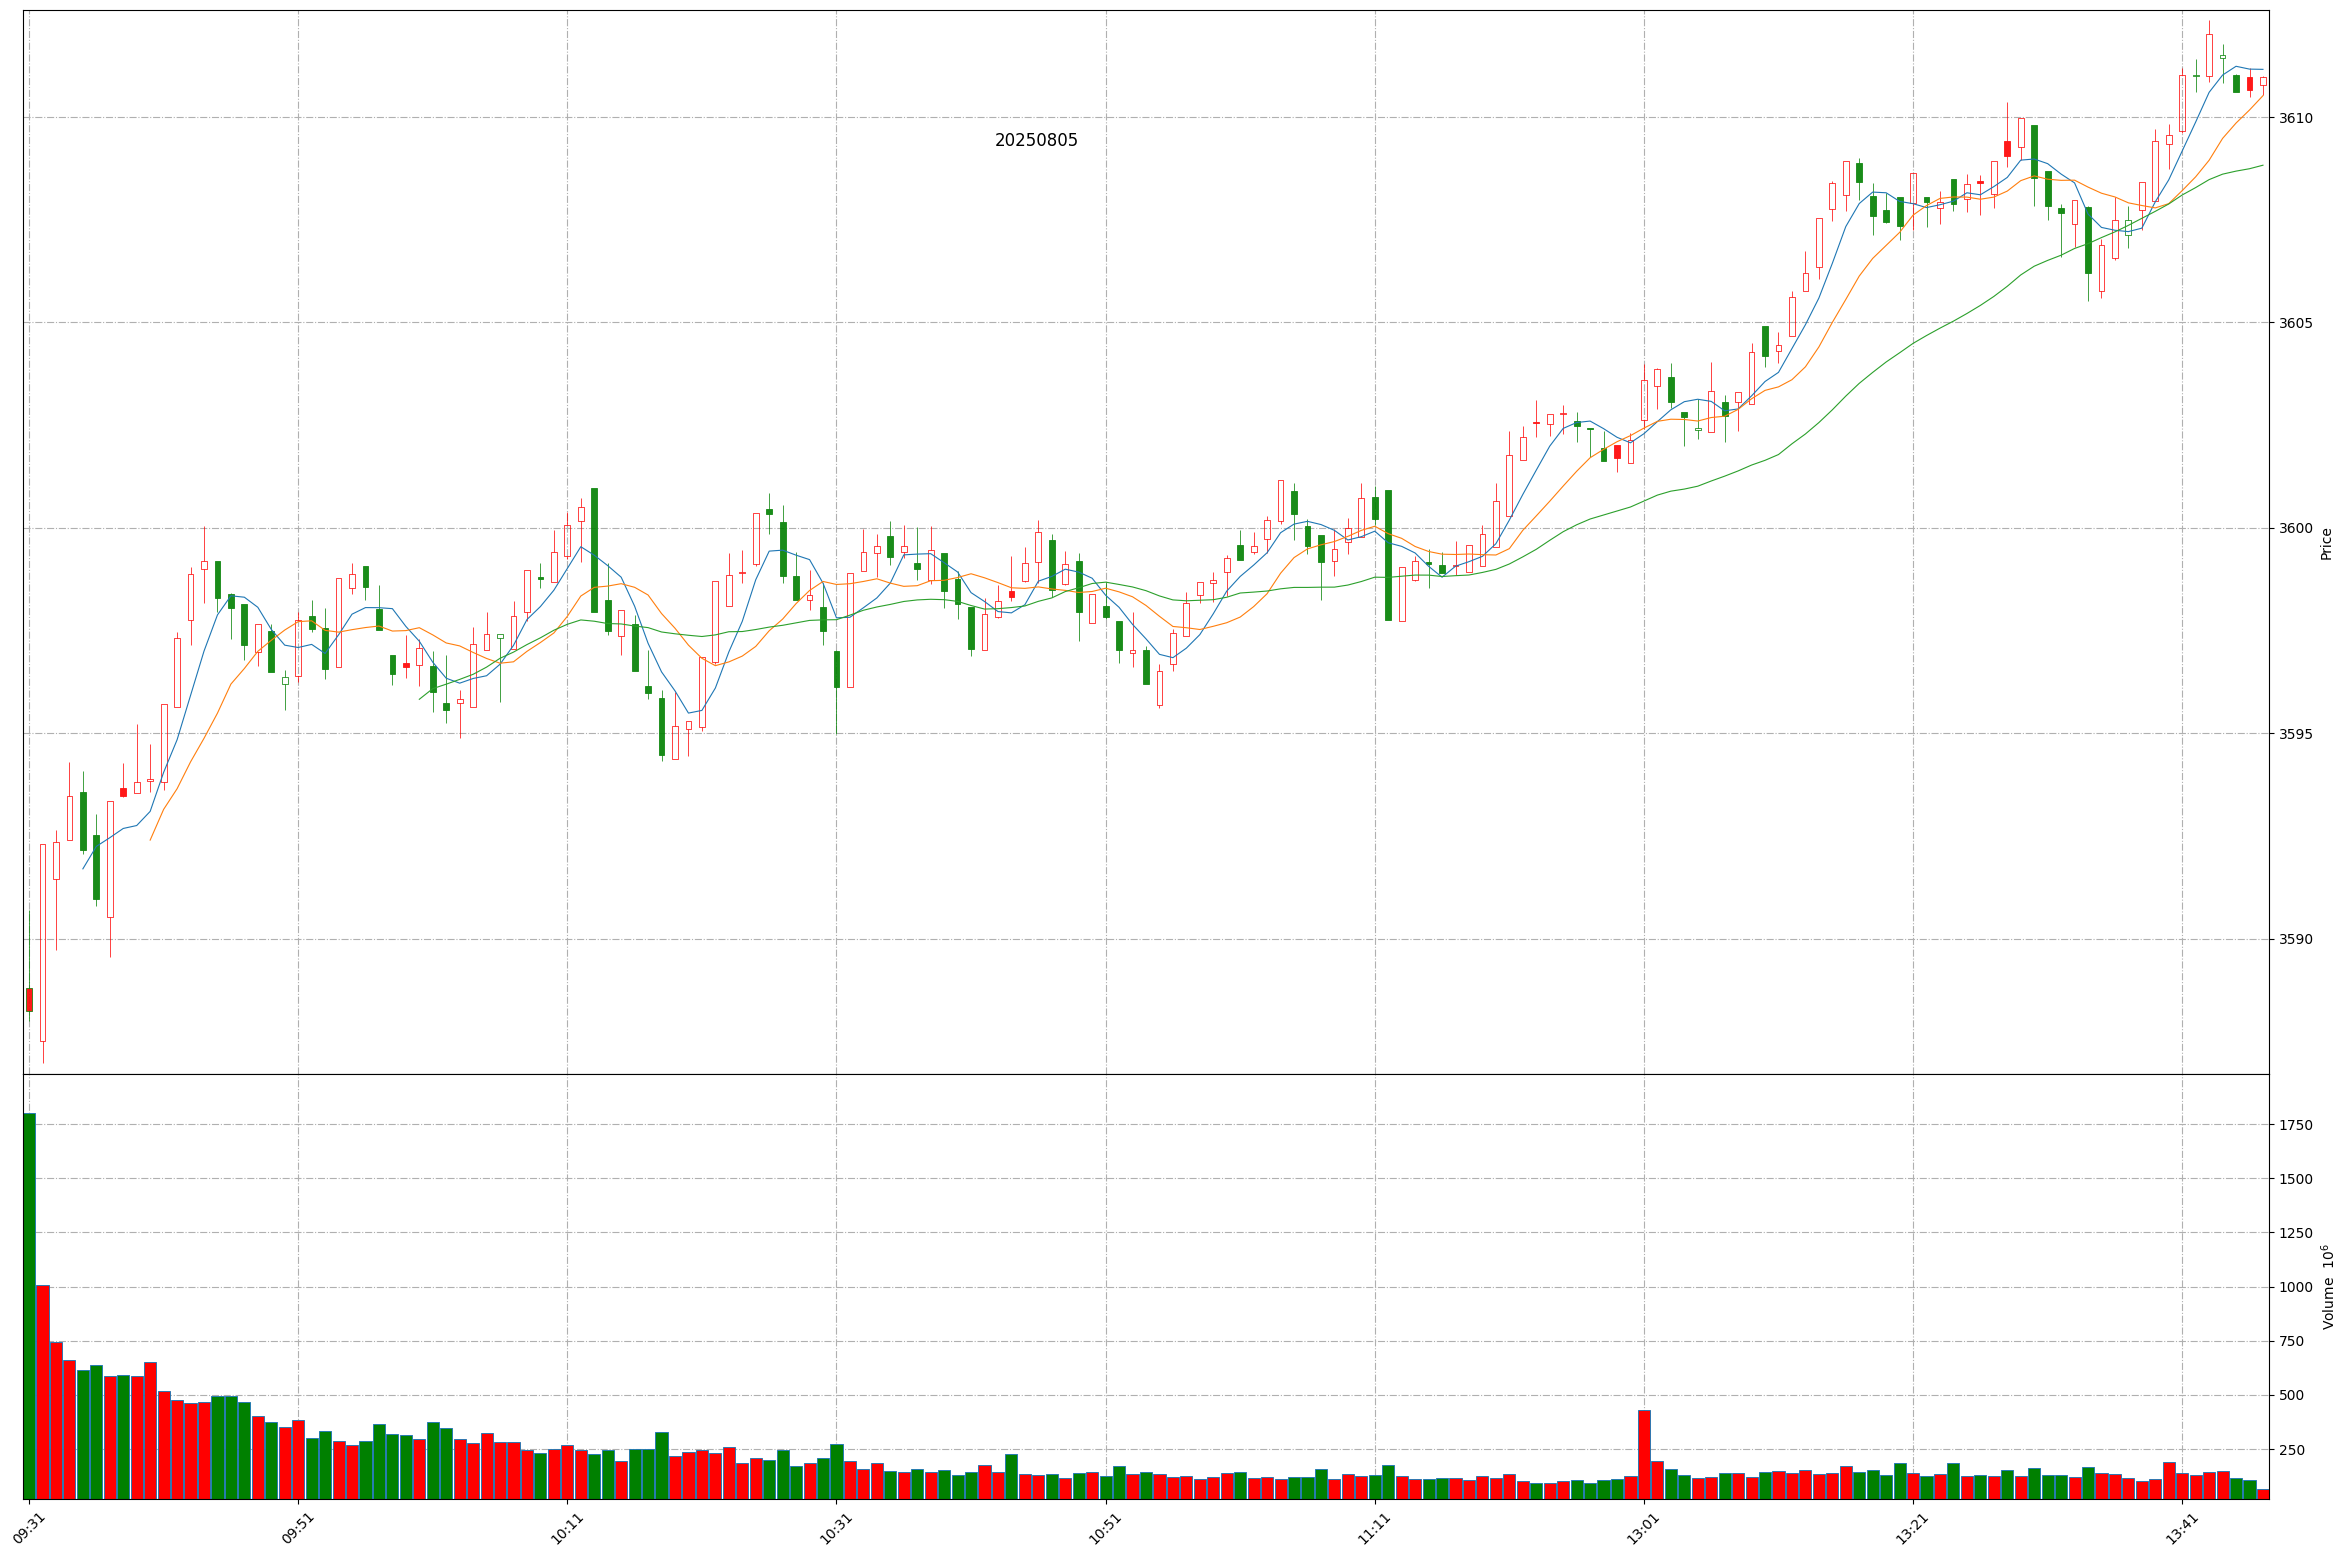
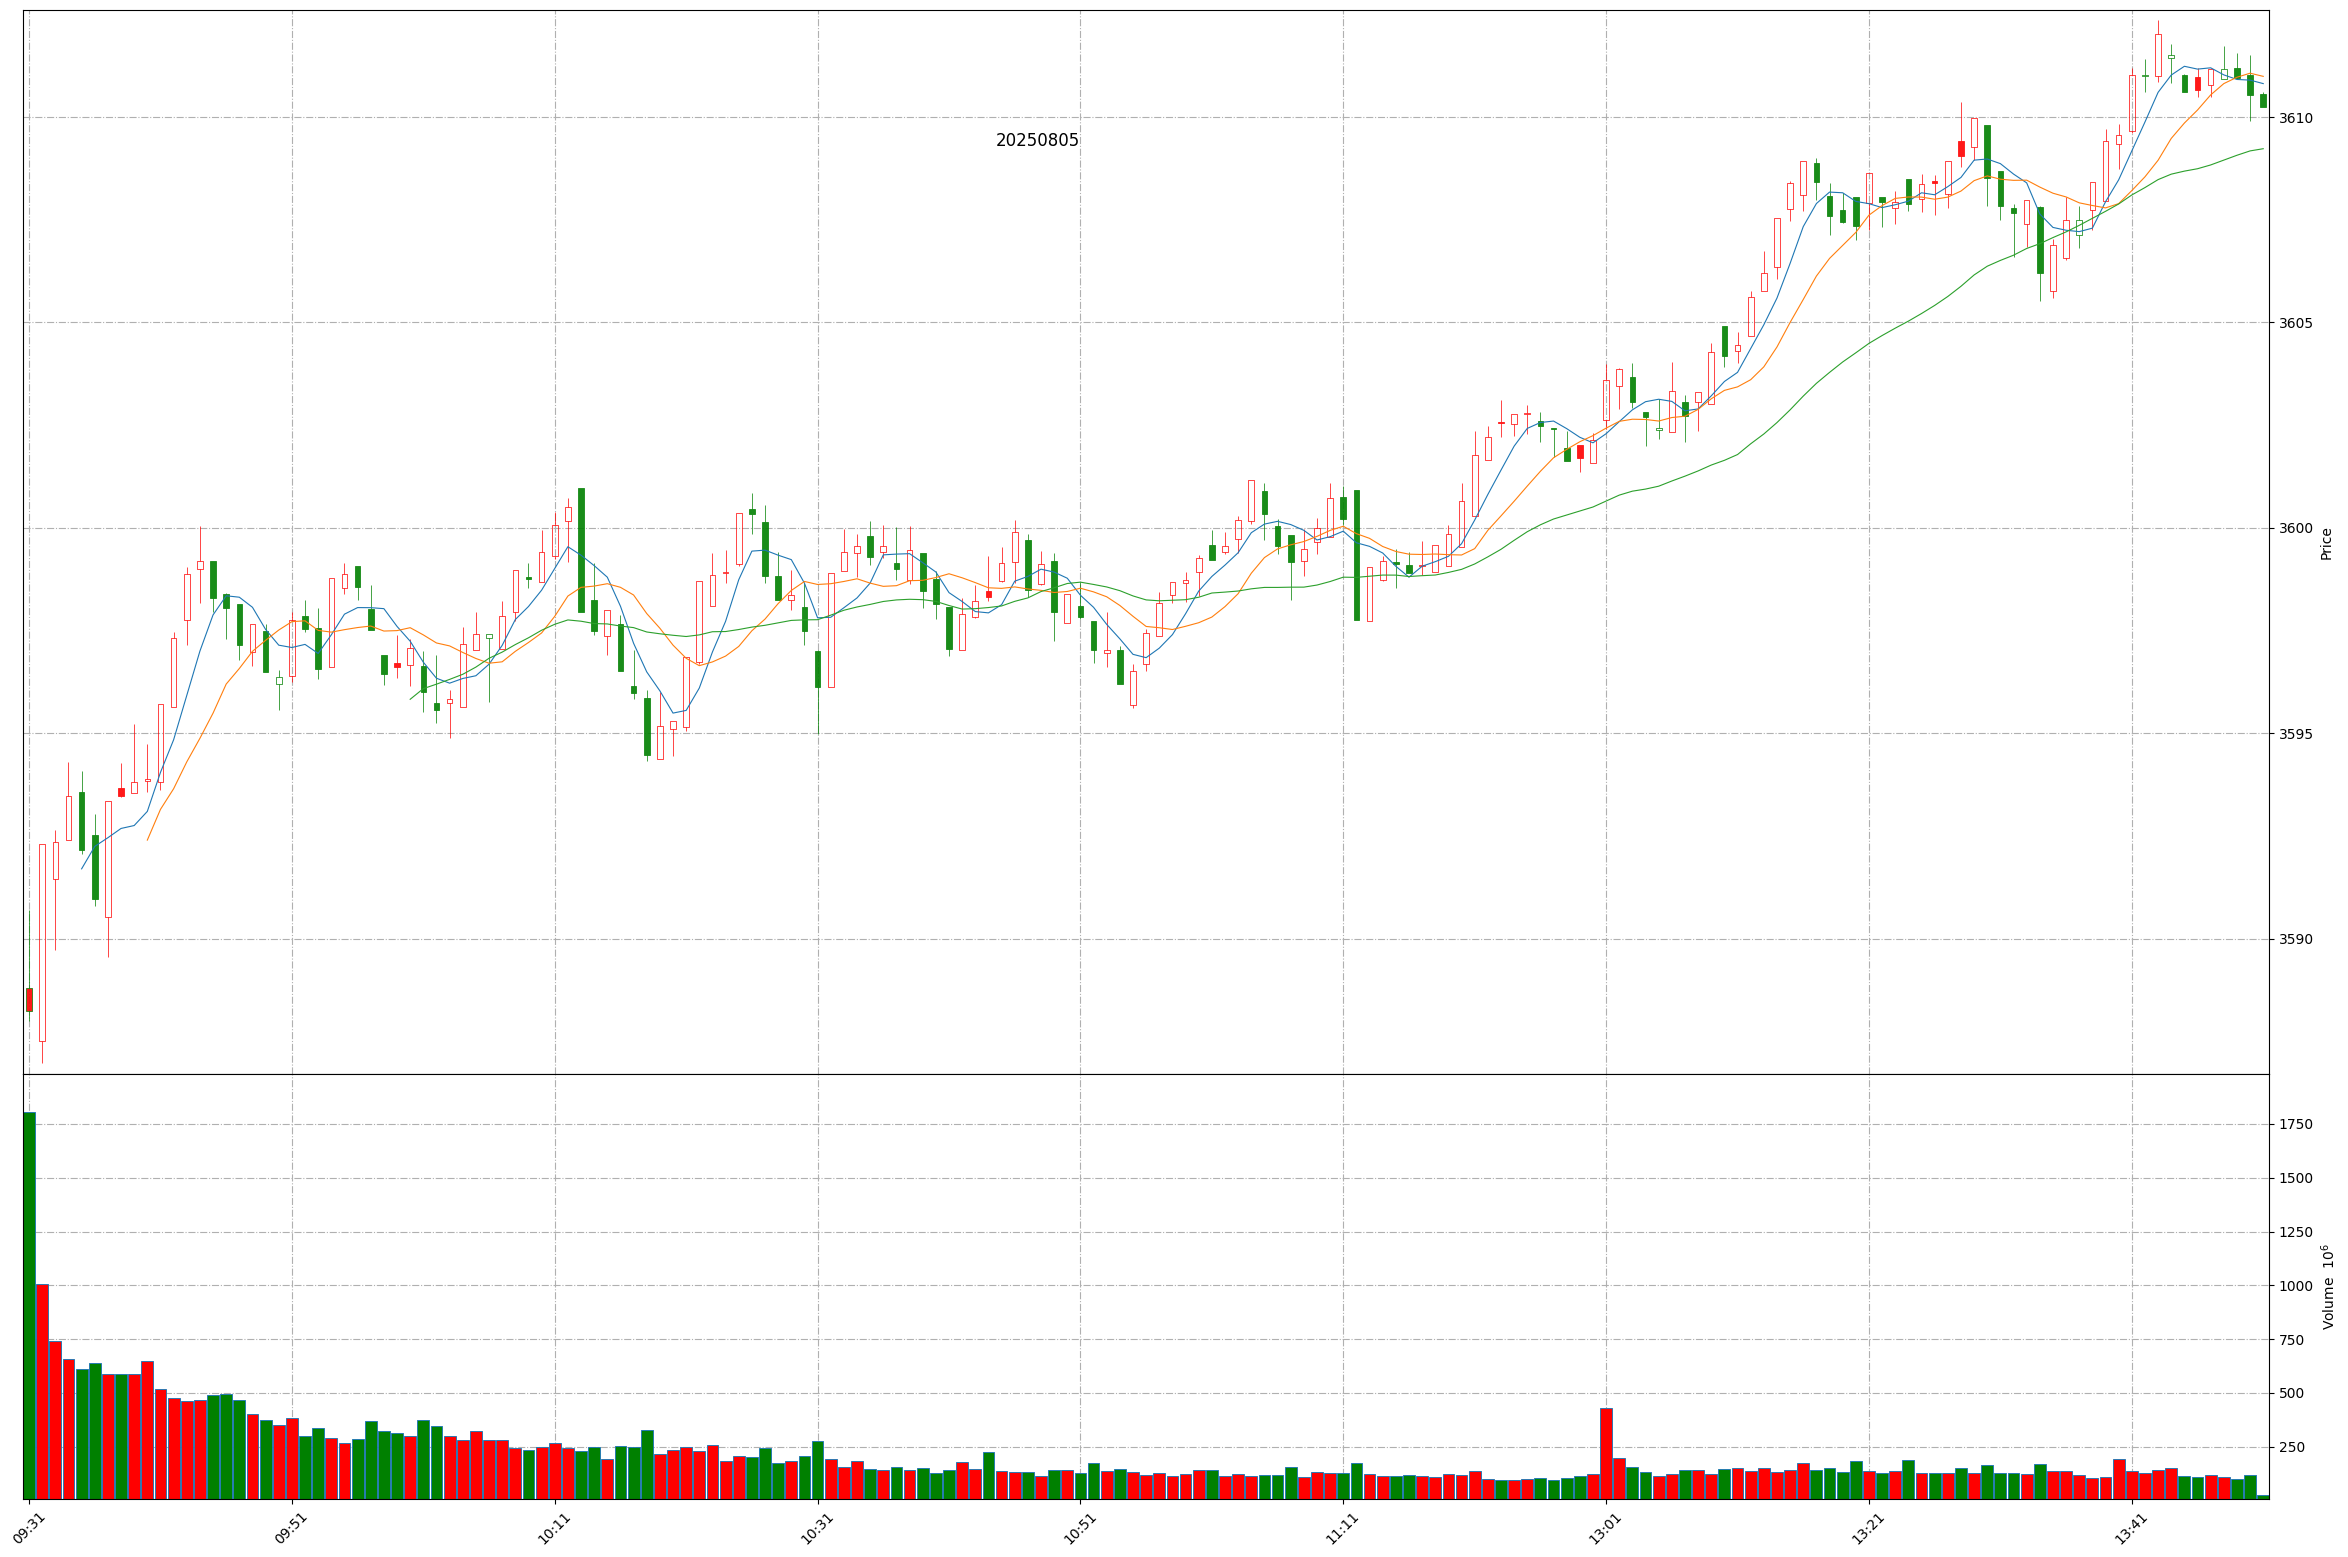
Github action update at 2025-08-05 13:50:38.

diff --git a/README.md b/README.md
@@ -1,11 +1,11 @@
 
 # Daily-A-share-market-quotes 每日 A 股指数（5min 更新）- 20250805
 
-### 上证指数 20250805 13:46
+### 上证指数 20250805 13:50
 ![](./fig/2025/8/20250805-sh000001.png)
 
-### 深证成指 20250805 13:46
+### 深证成指 20250805 13:50
 ![](./fig/2025/8/20250805-sz399001.png)
 
-### 北证50 20250805 13:46
+### 北证50 20250805 13:50
 ![](./fig/2025/8/20250805-bj899050.png)
